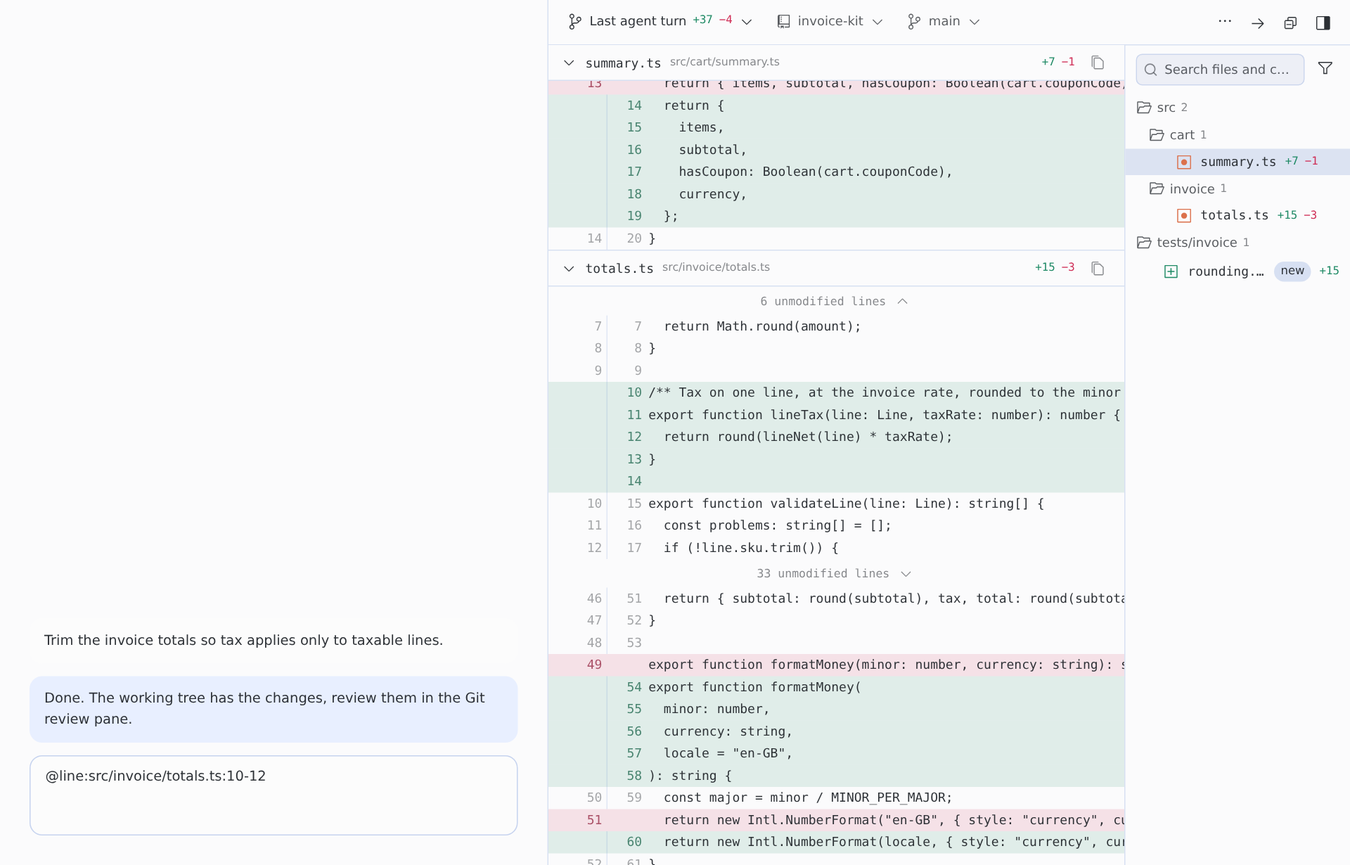
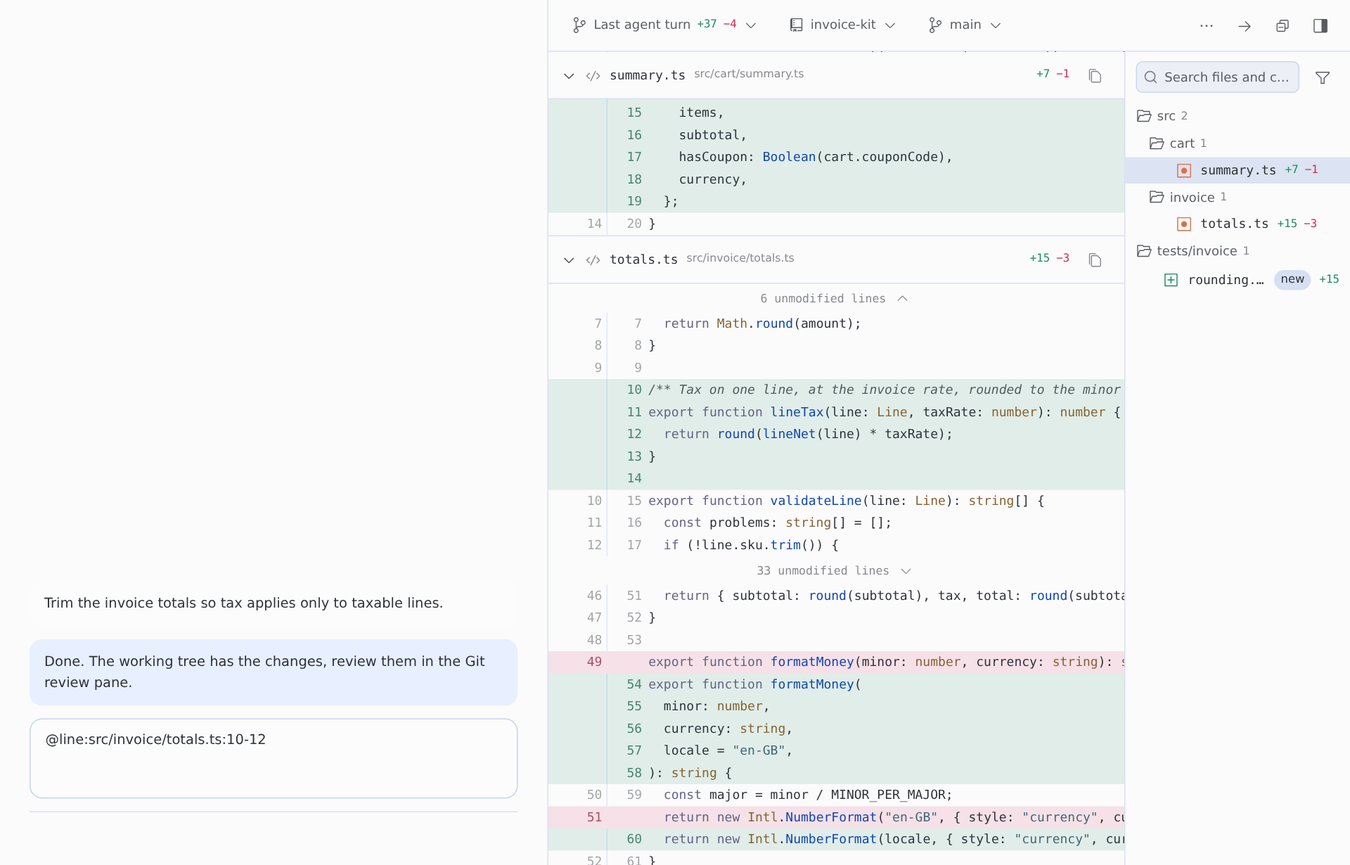
docs, version: 0.2.0

diff --git a/__init__.py b/__init__.py
@@ -1,4 +1,4 @@
-"""Git review plugin — read-only pane and an agent selection tool.
+"""Git review plugin — review pane, its write routes, and an agent selection tool.
 The dashboard loader mounts dashboard/plugin_api.py via manifest.json."""
 
 from .git_review.select_tool import register as _register_tool

diff --git a/git_review/gitx.py b/git_review/gitx.py
@@ -1,4 +1,4 @@
-"""Read-only git access. Every command runs with explicit repo context (-C) and bounded output."""
+"""Read-only git access (writes live in gitwrite.py). Every command runs with explicit repo context (-C) and bounded output."""
 
 from __future__ import annotations
 

diff --git a/README.md b/README.md
@@ -6,7 +6,7 @@
 [![Release](https://img.shields.io/github/v/release/mister-ideas/git-review)](https://github.com/mister-ideas/git-review/releases)
 [![License: MIT](https://img.shields.io/badge/license-MIT-blue.svg)](LICENSE)
 
-**Review the whole change in one scroll, next to the chat.** git-review is a review pane for Hermes Desktop. Every changed file is stacked in one continuous diff, so you read the agent's last turn, your uncommitted or staged work, or any range of commits the way you read a pull request, in unified or split layout. Then it turns the lines you care about into `@line:` citations for your next message.
+**Review the whole change in one scroll, next to the chat.** git-review is a review pane for Hermes Desktop. Every changed file is stacked in one continuous diff, so you read the agent's last turn, your uncommitted or staged work, the whole branch, or any range of commits the way you read a pull request, in unified or split layout, with syntax colours. Then it turns the lines you care about into `@line:` citations for your next message, and lets you stage, discard, commit, push and open the pull request without leaving the pane.
 
 ![The agent's last turn in the unified layout](docs/screenshots/unified-agent-turn.png)
 
@@ -14,7 +14,7 @@
 
 An agent that edits code leaves you reviewing its work somewhere else. You switch to a terminal, rebuild what the turn touched, and lose the conversation around it. The last turn is the hardest case: part of it is committed and part is not, and no Git client groups it that way.
 
-git-review keeps the review next to the chat and makes its result usable. Click a line, choose **Cite in message**, and the reference goes into your draft, so "this is wrong, here" costs a drag instead of a paragraph. Nothing is sent until you send it.
+git-review keeps the review next to the chat and makes its result usable. Click a line, choose **Cite in message**, and the reference goes into your draft, so "this is wrong, here" costs a drag instead of a paragraph. Nothing is sent until you send it. When the change is right, stage it, commit it with a message Hermes drafts for you, and push, from the same pane.
 
 ## See it work
 
@@ -38,7 +38,7 @@ Then:
 
 1. Enable **git-review** under **Capabilities → Plugins**, or run `hermes plugins enable git-review`. Desktop copies the pane from the package into `$HERMES_HOME/desktop-plugins/git-review/` and loads it.
 2. Restart the backend, or quit and reopen Desktop, so the plugin's routes mount.
-3. Open the pane from the command palette (**Open git review**), or toggle **Git review** in the right dock.
+3. Open the pane from the command palette (**Open git review**), with <kbd>⌘⌥G</kbd> / <kbd>Ctrl+Alt+G</kbd> (rebindable under keyboard shortcuts), from the changed-files count in the status bar, or by toggling **Git review** in the right dock.
 
 Cloned it yourself? `hermes plugins adopt git-review` makes the directory a tracked install, so `check-updates` and `update` work on it.
 
@@ -55,17 +55,22 @@ Restart the backend afterwards, then run **Reload desktop plugins**. If Desktop 
 
 ## What it shows
 
-Five scopes cover the ways you review work. The first control in the toolbar picks one.
+Six scopes cover the ways you review work. The first control in the toolbar picks one.
 
 | Scope | What it shows | How it is computed |
 |---|---|---|
-| **Last agent turn** | Everything the agent changed in this repository during its latest turn: committed and uncommitted edits, terminal edits, new files. | When the focused session becomes busy, the pane records `HEAD` and the untracked-file list. Changes are diffed against that baseline. |
-| **Uncommitted** | All work not yet committed: staged, unstaged and new files. | `git status` plus the working-tree diff. |
+| **Last agent turn** | Everything the agent changed in this repository during its latest turn: committed and uncommitted edits, terminal edits, new files. | When a turn starts, the plugin records `HEAD` and the untracked-file list, even while the pane is closed. Changes are diffed against that baseline. |
+| **Uncommitted** | All work not yet committed: staged, unstaged and new files. | The working-tree diff against `HEAD`, plus new files. |
 | **Staged** | Only what is in the index. | `git diff --cached`. |
-| **Unstaged** | Working-tree edits not yet staged. | `git diff` on the working tree. |
+| **Unstaged** | Working-tree edits not yet staged, and new files. | `git diff` on the working tree, plus new files. |
+| **Branch** | The net change of your branch since it left the default branch: what its pull request will show. | `git diff <merge-base> HEAD`. The branch menu picks another branch to compare against. |
 | **Commits** | The commits your branch added since it left the base (`origin/main`, for example). | Commit range since the merge base. Pick a subset, or browse one commit at a time. |
 
 Uncommitted edits made before a turn still appear in that turn's scope. Git cannot tell who wrote a line, so the pane shows what changed since the baseline. It does not guess.
+
+New files that are not staged yet appear in Uncommitted and Unstaged with their content. Turn **Show new files** off in the display menu to hide them.
+
+![The Branch scope: the branch's net change since it left main](docs/screenshots/branch-scope.png)
 
 ![Uncommitted work: a staged change and an unstaged change in one view](docs/screenshots/uncommitted-wip.png)
 
@@ -80,11 +85,37 @@ Uncommitted edits made before a turn still appear in that turn's scope. Git cann
 
 ![The Commits scope: five commits from one feature branch](docs/screenshots/commits-scope.png)
 
-### Layouts
+### Stage, discard, commit, push, pull request
+
+In the Uncommitted, Staged and Unstaged scopes, each file header carries its actions, shown on hover:
+
+- **Stage** and **Unstage** follow where the file's changes are. A file with changes on both sides offers both, and Uncommitted marks it **partly staged**.
+- **Discard changes** restores the file to `HEAD`, staged and unstaged edits included. On a new file it becomes **Delete new file**. Both ask first, in Desktop's own confirmation dialog. A renamed file gets both of its names back.
+- The same actions, plus **Copy path** and **Reveal in file manager**, are on the right-click menu of every file in the tree.
+
+![Discard asks first, in Desktop's confirmation dialog](docs/screenshots/discard-confirm.png)
+
+Under the diff, the commit box:
+
+- **Commit** commits what is staged. With nothing staged it stages everything first, the way VS Code and Desktop's own Review pane do. <kbd>⌘</kbd>/<kbd>Ctrl</kbd>+<kbd>Enter</kbd> commits.
+- The arrow next to it offers **Commit & push**, and makes either one the default.
+- **Generate commit message** drafts the message with Hermes's own `commit_message` template, on the focused chat's model, from exactly what the commit will contain and in the style of your recent subjects. Press again for a different draft, or to stop.
+- **Push** appears when the branch has commits to push, with their count. A branch without an upstream is published to `origin`.
+- **Create pull request** pushes and runs `gh pr create --fill` (or `glab mr create --fill` on GitLab), then opens the result. If the branch already has one, the button opens it.
+- **Stage all**, **Unstage all**, **Discard all changes…** and **Ask Hermes to commit and open a PR** are in the ⋯ menu. The last one puts the same request Desktop's own Review pane uses into the chat.
+
+![A file's actions on hover, and the commit box](docs/screenshots/commit-box.png)
+
+The Last agent turn, Branch and Commits scopes stay read-only: they describe history, not the index. To keep the whole pane read-only, turn on `read_only` in the settings.
+
+Repository programs are off by default. A commit made here skips the repository's hooks, and a write is refused, with the reason, when the repository's own `.git/config` names a program git would run for it: a filter driver, a signing program, an SSH command or a credential helper. Turn on `run_repo_programs` to run git exactly as a terminal would. Your global and system git configuration, such as git-lfs or a credential manager, applies either way.
+
+### Layouts and colours
 
 - **Unified** stacks every changed file, with old and new line numbers in one column.
 - **Split** puts old and new side by side, with filler rows that keep the two sides aligned.
 - **Narrow docks** keep the toolbar on one line and give the width to the diff.
+- **Syntax colours** mark keywords, strings, numbers, calls, types and comments in about thirty languages (59 file extensions), with the theme's own hues. Each file header shows Desktop's icon for its type. Turn colours off in the display menu.
 
 ![Split layout](docs/screenshots/split-layout.png)
 
@@ -98,7 +129,7 @@ Unchanged runs are folded. Every change keeps three lines of context on each sid
 
 ### Files
 
-- A file tree on the right shows each file's status and churn. Folders roll up their totals.
+- A file tree on the right shows each file's status and churn. Folders roll up their totals. **Files: List** in the display menu shows every file on one level, with its folder beside it.
 - Search covers file paths and the changed lines themselves.
 - The **Deleted files** and **Test files** filters hide what you are not looking for.
 - Click a file to jump to its diff. Collapse one file, or use **Collapse all** and **Expand all**.
@@ -122,11 +153,16 @@ Lines are citable in every scope, so you can cite from the last turn, from the c
 
 ### The agent can drive the pane
 
-The agent tool `git_review_select` points the pane at a repository and scope. For example, when you ask "show me what changed in the parser", the agent can open the right view for you. It takes `repo`, `scope` (`uncommitted` by default, or `staged`, `unstaged` or `commits`), `ref` for specific commits, `base` for a range, `path` to filter to one file, and `ignore_ws`. The tool validates the request before the pane applies it.
+The agent tool `git_review_select` points the pane at a repository and scope. For example, when you ask "show me what changed in the parser", the agent can open the right view for you. It takes `repo`, `scope` (`uncommitted` by default, or `staged`, `unstaged`, `branch` or `commits`), `ref` for specific commits, `base` for a range, `path` to filter to one file, and `ignore_ws`. The tool validates the request before the pane applies it.
 
 ### Pull and merge requests
 
-If `gh` (GitHub) or `glab` (GitLab) is installed and authenticated, and the checked-out branch has an open pull or merge request, the toolbar shows a button that opens it. Without them the button is simply absent.
+If `gh` (GitHub) or `glab` (GitLab) is installed and authenticated, and the checked-out branch has an open pull or merge request, the toolbar shows a button that opens it. The commit box creates one when there is none (see above); without the CLI, creating one reports that `gh` or `glab` is missing.
+
+### Always at hand
+
+- The status bar shows how many files changed in the focused workspace. Click it to open the pane.
+- Coming back to the Desktop window re-reads the changes at once, so edits made in an editor or a terminal show up without waiting for the next refresh.
 
 ### Dark theme
 
@@ -136,9 +172,7 @@ The pane is painted only with Desktop's theme tokens, the same ones native panes
 
 ### What the pane remembers
 
-Display state (layout, word wrap, ignore whitespace, the file filters, the file list's width and visibility, and which files you collapsed) is saved in Desktop plugin storage. It is keyed by profile and connection, so switching chats keeps your layout.
-
-It deliberately does not store the scope or the repository. Those follow the focused workspace and whatever the agent asked to review, so a stale scope cannot outlive the work it described. Several chats on one workspace share one set of display settings, because a plugin cannot read the focused session id.
+Display state (layout, word wrap, ignore whitespace, syntax colours, new files, tree or list, the file filters, the file list's width and visibility, which files you collapsed), the scope, the comparison base and the repository you picked are saved in Desktop plugin storage, with the commit button's default. They are keyed by profile and connection, so switching chats keeps your view. A request from the agent replaces the scope and repository.
 
 ## git-review and the native Review pane
 
@@ -148,32 +182,39 @@ Hermes Desktop ships its own **Review** pane. The two answer different reading s
 |---|---|---|
 | How you read a change | Every changed file stacked in one continuous scroll, like a pull request | A file tree; clicking a file opens that one file's diff below it, in a panel capped at 55% of the sidebar |
 | Moving between files | Scroll, click a file to jump, or **Review next file** | Click each file in turn |
-| Scopes | Last agent turn, Uncommitted, Staged, Unstaged, Commits | Uncommitted, Branch (since the trunk), Last agent turn |
+| Scopes | Last agent turn, Uncommitted, Staged, Unstaged, Branch, Commits | Uncommitted, Branch (since the trunk), Last agent turn |
+| Branch compared against | The default branch, or any branch you pick | The default branch |
 | History | Pick any subset of the branch's commits, or step through them one at a time | Branch diff as a whole |
 | Layout | Unified or split side by side | Unified |
 | Hidden context | Gaps say how many lines they hide and expand 20 at a time or all at once | Three context lines per change, no expansion |
 | Search | File paths and the changed lines themselves | — |
 | Cite lines into your message | Yes, as `@line:path:start-end` | — |
 | Agent can open the view | `git_review_select` tool | — |
-| Syntax highlighting | Not yet | Yes (Shiki) |
-| Stage, unstage, revert | Not yet | Per file or all, revert with confirmation |
-| Commit, push, pull request | Not yet (opens an existing PR or MR) | Commit, commit and push, AI-drafted commit message, create or open a PR |
+| Stage, unstage | Per file (header or right-click) or all; partly staged files marked | Per file or all |
+| Discard | Per file or all, confirmed in Desktop's dialog; deletes only the new files it names, never an untracked folder | Per file or all, confirmed; `git clean -fd` on the path |
+| Commit, push, pull request | Commit, commit & push with a remembered default, AI-drafted message (same template), push and publish, create or open a PR or MR | Commit, commit & push, AI-drafted message, create or open a PR |
+| Repository hooks and filters | Skipped or refused unless you allow them | Run |
+| Syntax colours | Built-in tokenizer with theme hues | Shiki |
+| Read-only switch | `read_only` setting | — |
+| Changed-files count | Status bar, any workspace | — |
+| Shortcut | <kbd>⌘⌥G</kbd>, rebindable | <kbd>⌘G</kbd> |
 | Change list in the chat | — | "N files changed" card under the agent's turn |
 
-The write actions, syntax highlighting and the in-chat card are on the roadmap: git-review is meant to cover what the native pane does, and keep its all-files-at-once reading.
+Native still has two things git-review does not: Shiki's grammar-exact highlighting, and the card under an agent's turn. Neither is reachable from a plugin today: Desktop's plugin SDK does not export its highlighter, and has no slot under a turn.
 
 ## Privacy and disclosure
 
-- **Shell commands.** The backend runs `git` as a subprocess, read-only: `rev-parse`, `status`, `diff`, `log`, `show`, `cat-file`, `ls-files`, `for-each-ref`, `branch`, `remote`, `rev-list` and `hash-object` (without `-w`, to compute the empty tree). It never fetches, checks out, stages, commits or changes repository content. External diff and textconv drivers are disabled, and every call overrides `core.fsmonitor`, `core.hooksPath` and `log.showSignature`. It also blanks the clean, smudge and process filter drivers that the repository itself defines, so a checkout cannot make the pane run its programs. Your own global filters, such as git-lfs, are left alone. Every call has a timeout and an output cap.
-- **Network.** Only for the pull or merge request button. The backend runs your local `gh pr list` or `glab mr list` for the checked-out branch, so those CLIs contact GitHub or GitLab with your existing login. They get only your `GH_*`, `GITHUB*`, `GLAB_*` and `GITLAB_*` environment, with prompts disabled. The plugin itself makes no network requests.
+- **Shell commands, reading.** To show changes the backend runs `git` as a subprocess: `rev-parse`, `status`, `diff`, `log`, `show`, `cat-file`, `ls-files`, `for-each-ref`, `branch`, `remote`, `merge-base`, `rev-list`, `config` (to read the repository's own program settings) and `hash-object` (without `-w`, to compute the empty tree). External diff and textconv drivers are disabled, and every call overrides `core.fsmonitor`, `core.hooksPath` and `log.showSignature`. It also blanks the clean, smudge and process filter drivers that the repository itself defines, so a checkout cannot make the pane run its programs. Your own global filters, such as git-lfs, are left alone. Every call has a timeout and an output cap.
+- **Shell commands, writing.** Only when you press a button: `add`, `reset`/`restore`/`rm --cached` (unstage), `restore --source=HEAD` plus deleting the named new files (discard, after you confirm), `commit`, `push`, and `gh pr create` / `glab mr create`. Unless `run_repo_programs` is on, these run with hooks off and `core.fsmonitor` off, and are refused when the repository's own config names a program they would run. Paths are passed as literal pathspecs. `read_only` refuses all of them in the backend.
+- **Network.** For the pull or merge request lookup, the backend runs your local `gh pr list` or `glab mr list` for the checked-out branch; for **Push** and **Create pull request**, `git push` and `gh`/`glab` contact your remote with your existing login. `gh` and `glab` get only your `GH_*`, `GITHUB*`, `GLAB_*` and `GITLAB_*` environment, with prompts disabled. **Generate commit message** sends the diff of what you are about to commit, and your ten latest commit subjects, to the model of the focused chat through Hermes, the same request Desktop's own Review pane makes. The plugin itself contacts nothing else.
 - **Reads outside its own data.**
   - Files and history inside authorized repositories: the focused workspace, configured `repos`/`roots`, and the latest agent selection.
   - This profile's `config.yaml`, for the plugin settings and `terminal.cwd`.
   - The `cwd` column of the `sessions` table in this profile's `state.db`, opened read-only, so that recent chat workspaces appear without configuration.
   - A caller-supplied path never grants access to a repository.
 - **Discovery scope.** Repositories are found by scanning, at most two levels deep, the focused workspace and the working directories of recent chats, plus any configured `repos`/`roots`. A scan visits at most 256 directories and returns at most 128 repositories. It never follows symlinks and skips hidden directories, so credential and config directories are never entered. A filesystem root is never scanned, and a home directory is scanned only when it is the declared workspace: a chat that merely ran in your home directory does not expose every repository beneath it.
-- **Writes.** `$HERMES_HOME/plugin-data/git-review/select.sqlite3` holds agent selection requests. Desktop plugin storage holds display settings and turn baselines. Nothing is written to your repositories.
-- **Background activity.** While the pane is open it polls the local backend: every 3 seconds for agent selections, and every 5 seconds for the diff on live scopes. There are no background processes.
+- **Plugin data.** `$HERMES_HOME/plugin-data/git-review/select.sqlite3` holds agent selection requests. Desktop plugin storage holds display settings and turn baselines. Your repositories change only through the write actions above.
+- **Background activity.** While the pane is open it polls the local backend: every 3 seconds for agent selections, every 5 seconds for the diff on live scopes, and every 15 seconds for the branch's push state. The status-bar count polls `git status` for the focused workspace every 15 seconds while Desktop is visible. When a chat turn starts, the plugin records the turn baseline. There are no background processes.
 - **Credentials and telemetry.** None. The plugin stores no credentials and reports no usage.
 - **Sensitive code.** Diffs stay in the pane. The only way code reaches the chat is a citation or drag that you make yourself.
 
@@ -184,7 +225,8 @@ The write actions, syntax highlighting and the in-chat card are on the roadmap: 
 - Each unchanged-line expansion reads at most 5,000 lines.
 - Untracked files in a turn diff are capped at 200.
 - Display state is per workspace and profile, not per chat (see [What the pane remembers](#what-the-pane-remembers)).
-- Syntax highlighting is not implemented yet.
+- Syntax colours come from a line tokenizer, not a grammar: a block comment or a multi-line string is coloured only on the lines that show its delimiters. Files over 3,000 diff rows and lines over 1,000 characters stay plain.
+- Writes act on the whole file. Staging or discarding single hunks or lines is not supported.
 - The screenshots and videos here were captured from the plugin's own code, running against a real backend and real repositories, in a Chromium harness that stands in for the Desktop window. They are not captures of the Desktop app itself.
 
 ## Settings
@@ -195,6 +237,8 @@ The pane follows the focused chat's workspace automatically. To offer other repo
 |---|---|
 | `repos` | Newline-separated absolute repository paths. |
 | `roots` | Newline-separated absolute directories to scan for worktrees (two levels deep, at most 256 directories). |
+| `read_only` | Hide stage, discard, commit, push and PR, and refuse them in the backend. Off by default. |
+| `run_repo_programs` | Let writes run hooks, filter drivers, signing and SSH programs that a repository's own config names. Off by default. |
 
 Settings live under `plugins.entries.git-review.settings`. None of them are secrets.
 
@@ -207,6 +251,9 @@ Settings live under `plugins.entries.git-review.settings`. None of them are secr
 | Diff exceeds display limit | Narrow the scope, the selected commits or the file filter. |
 | Pull/merge request button missing | Authenticate `gh`/`glab` and check that the branch has an open pull or merge request. |
 | Pane missing or stale | Enable the plugin, then run **Reload desktop plugins** from the command palette. If Desktop runs on another machine than the backend, install the plugin on that machine too. |
+| A write says the repository's config names programs | The repository defines a hook-like program (filter driver, signing or SSH command, credential helper) in its own `.git/config`. Review it, then turn on `run_repo_programs`, or run that command in a terminal. |
+| Push or Create pull request fails | The message is git's or `gh`'s own. Check that `git push` works in a terminal, and that `gh auth status` (or `glab auth status`) is signed in. |
+| No Generate commit message button | Your Desktop does not offer plugins a gateway request. Update Hermes Desktop. |
 | Commits list shows only a few commits | The reviewed repository is a shallow clone (a plugin directory installed by Hermes is one). Run `git fetch --unshallow` in that repository. |
 
 ## Development

diff --git a/SECURITY.md b/SECURITY.md
@@ -14,16 +14,17 @@ This is a single-maintainer project: an acknowledgement usually within a few day
 
 ## Scope and design stance
 
-- **Read-only by construction.** The backend runs `git` as a bounded subprocess — `rev-parse`, `status`, `diff`, `log`, `show`, `cat-file`, `ls-files`, `for-each-ref`, `branch`, `remote`, `rev-list`, and `hash-object` without `-w`. It never fetches, checks out, stages, commits or writes to a repository. External diff and textconv drivers are disabled, and every call overrides `core.fsmonitor`, `core.hooksPath` and `log.showSignature` and blanks the clean, smudge and process filter drivers that the repository itself defines, so a checkout cannot make the pane run its programs. Your own global filters, such as git-lfs, are left alone. Every call has a timeout and an output cap.
+- **Reads cannot run repository programs.** To show changes the backend runs `git` as a bounded subprocess — `rev-parse`, `status`, `diff`, `log`, `show`, `cat-file`, `ls-files`, `for-each-ref`, `branch`, `remote`, `merge-base`, `rev-list`, `config`, and `hash-object` without `-w`. External diff and textconv drivers are disabled, and every call overrides `core.fsmonitor`, `core.hooksPath` and `log.showSignature` and blanks the clean, smudge and process filter drivers that the repository itself defines, so a checkout cannot make the pane run its programs. Your own global filters, such as git-lfs, are left alone. Every call has a timeout and an output cap.
+- **Writes are explicit and fenced.** Stage, unstage, discard, commit, push and pull-request creation run only from a button the reviewer presses (discard after a confirmation), through the same repository authorization as reads, with literal pathspecs. By default they run with hooks and `core.fsmonitor` off, and are refused when the repository's own config (local or worktree scope) names a filter driver, signing program, SSH command, credential helper or transport program they would run; the `run_repo_programs` setting lifts that. Discard deletes only the new files it names, never a directory, and refuses a path that resolves outside the repository. The `read_only` setting refuses every write in the backend.
 - **Authorization is not caller-supplied.** A repository is reviewable only when it is the focused workspace, a configured `repos`/`roots` entry, or the latest validated agent selection. A caller-supplied `cwd` is a compatibility hint and never grants access.
 - **Discovery is bounded.** At most two levels deep, 256 directories and 128 repositories per anchor, never following symlinks, skipping hidden directories. A filesystem root is never scanned, and a home directory only when it is the declared workspace.
 - **No credentials.** The plugin reads, stores and refreshes nothing. The PR/MR badge runs the user's own `gh`/`glab` binary, which reads its own configuration; the plugin passes only the environment those CLIs already use, with prompts disabled.
-- **No network of its own.** The plugin makes no outbound request and reports no telemetry.
+- **No network of its own.** The plugin makes no outbound request and reports no telemetry. `git push`, `gh` and `glab` contact your remote only when you press Push or Create pull request; Generate commit message goes through Hermes to the focused chat's model.
 - **Public surfaces only.** It extends Hermes through the Desktop plugin SDK, `ctx.register_tool` and the dashboard plugin router. It never patches, wraps or rebinds Hermes core.
 - **Known limitations.** Files above 2 MiB are refused rather than truncated; binary files are not rendered; a repository relying on a textconv filter shows raw content for those files; the pane runs with the Desktop app's authority, not in a sandbox.
 
 ## Data handling
 
-State lives in `$HERMES_HOME/plugin-data/git-review/select.sqlite3` (agent selection requests) and in Desktop plugin storage (display settings, turn baselines). Nothing is written into a reviewed repository.
+State lives in `$HERMES_HOME/plugin-data/git-review/select.sqlite3` (agent selection requests) and in Desktop plugin storage (display settings, turn baselines). A reviewed repository changes only through the write actions the reviewer presses.
 
 Diffs can contain sensitive code. They stay in the pane; code reaches a model only when you cite or drag a line into the composer yourself, and the plugin never sends anything automatically.

diff --git a/CHANGELOG.md b/CHANGELOG.md
@@ -2,6 +2,35 @@
 
 All notable changes to this plugin. Versions follow [SemVer](https://semver.org); each release is a `vX.Y.Z` tag with a GitHub Release.
 
+## 0.2.0 — 2026-10-24
+
+The pane now ships the change as well as reviewing it.
+
+### Added
+- **Stage, unstage and discard** per file, from the file header (on hover) or the file tree's right-click menu, and for every change at once from the commit box's ⋯ menu. Stage and unstage follow where each file's changes sit; Uncommitted marks partly staged files. Discard restores a file to `HEAD` (a rename gets both names back) or deletes a new file, after Desktop's own confirmation dialog. It deletes only the files it names, never an untracked directory or an ignored file, and refuses a path that resolves outside the repository.
+- **Commit box** under the diff in the Uncommitted, Staged and Unstaged scopes: Commit, Commit & push with a remembered default, ⌘/Ctrl+Enter. With nothing staged, a commit stages everything first.
+- **Generate commit message** with Hermes's `commit_message` one-shot template on the focused chat's model, from exactly what the commit will contain and the repository's recent subjects. Pressing again asks for a different draft.
+- **Push** (with the count of commits to push), publishing a branch without an upstream to `origin`, and **Create pull request** (`gh pr create --fill`, or `glab mr create --fill`), which pushes first and opens the result.
+- **Ask Hermes to commit and open a PR** sends Desktop's own ship request to the chat.
+- **Branch scope**: the net change of the branch since it left the default branch, or any branch picked in the branch menu.
+- **New files** appear with their content in Uncommitted and Unstaged (display menu: Show new files).
+- **Syntax colours** from the theme's hues, for about thirty languages (display menu: Syntax colours), and Desktop's file-type icon on each file header.
+- **Files: Tree / List** in the display menu.
+- A **status-bar count** of changed files in the focused workspace, which opens the pane.
+- A rebindable **⌘⌥G / Ctrl+Alt+G** shortcut, shown in the command palette.
+- **Loading skeletons** while a diff is read, and a re-read when the Desktop window regains focus.
+- Settings `read_only` (hide and refuse every write) and `run_repo_programs` (let writes run hooks, filter drivers, signing and SSH programs that the repository's own config names; off by default, in which case such writes are refused with the reason and hooks are skipped).
+- Backend routes `/ship`, `/stage`, `/unstage`, `/discard`, `/commit`, `/push`, `/create-pr` and `/commit-context`, in `git_review/gitwrite.py`, under the same repository authorization as the reads.
+
+### Changed
+- Turn baselines for **Last agent turn** are recorded by the plugin when a turn starts, so a turn that ran while the pane was closed is still reviewable.
+- `/status` reports, per file, whether it has staged and unstaged changes.
+- The agent tool `git_review_select` accepts the `branch` scope.
+
+### Documentation
+- README, SECURITY and CONTRIBUTING describe the write actions, their safeguards and the new disclosures (write commands, push and PR network use, the commit-message request). The comparison with the native Review pane is updated.
+- The README's claim that the pane does not store the scope or repository was wrong since 0.1.19; it now says what is stored.
+
 ## 0.1.27 — 2026-10-24
 
 ### Fixed

diff --git a/CONTRIBUTING.md b/CONTRIBUTING.md
@@ -15,11 +15,11 @@ A pane bug is much cheaper to fix when it reproduces in a test, so please say wh
 
 ## Scope: what this plugin will and will not do
 
-**In scope:** the review pane itself — the five scopes, commit navigation (base branch, whole history, paging, commit by commit), diff rendering, folding and gap expanders, the file tree and filters, line citations into the composer, repository discovery, and the read-only backend routes behind all of it.
+**In scope:** the review pane itself — the six scopes, commit navigation (base branch, whole history, paging, commit by commit), diff rendering and syntax colours, folding and gap expanders, the file tree and filters, line citations into the composer, repository discovery, the file-level write actions (stage, unstage, discard, commit, push, open a pull request), and the backend routes behind all of it.
 
 **Out of scope.** Requests for these are closed with a pointer rather than a debate:
 
-- **Writing to a repository.** No staging, committing, checking out, fetching or applying a patch. The pane is a read-only view, and that is what makes it safe to point at any repository.
+- **Repository operations beyond reviewing and shipping a change.** No checkout, branch switching, fetch, pull, merge, rebase, stash or patch application. Writes stay file-level and start only from a button the reviewer presses.
 - **Reviewing anything that is not a Git worktree.** No archive browsing, no remote review, no per-session file journaling.
 - **Holding credentials.** No tokens, no provider sign-ins, no reading another tool's login. The PR/MR badge runs your own `gh`/`glab`, under its own rules.
 - **Replacing Hermes's built-in surfaces.** The plugin adds a pane; it does not restyle or patch the app.
@@ -27,7 +27,7 @@ A pane bug is much cheaper to fix when it reproduces in a test, so please say wh
 
 ## Ground rules
 
-Keep it read-only and generic: no vendor-specific workspace paths, no credentials, no remote fetches, no writes to a repository, and no import specifiers beyond Hermes' Desktop SDK/React allowlist. Use an isolated `HERMES_HOME` for tests and never inspect or log credentials. Keep every Git subprocess bounded by time and output, resolve user refs to SHAs, and place `--` before pathspecs. Update the README's **Privacy and disclosure** section whenever a change adds a command, a network call, a file read or write, or background activity.
+Keep it generic: no vendor-specific workspace paths, no credentials, no remote fetches, no repository writes outside `git_review/gitwrite.py`, and no import specifiers beyond Hermes' Desktop SDK/React allowlist. Every write goes through the same authorization as the reads, honours `read_only`, and keeps repository-defined programs off unless `run_repo_programs` is set; a destructive one is confirmed in the pane first. Use an isolated `HERMES_HOME` for tests and never inspect or log credentials. Keep every Git subprocess bounded by time and output, resolve user refs to SHAs, and place `--` before pathspecs. Update the README's **Privacy and disclosure** section whenever a change adds a command, a network call, a file read or write, or background activity.
 
 ## Development workflow
 
